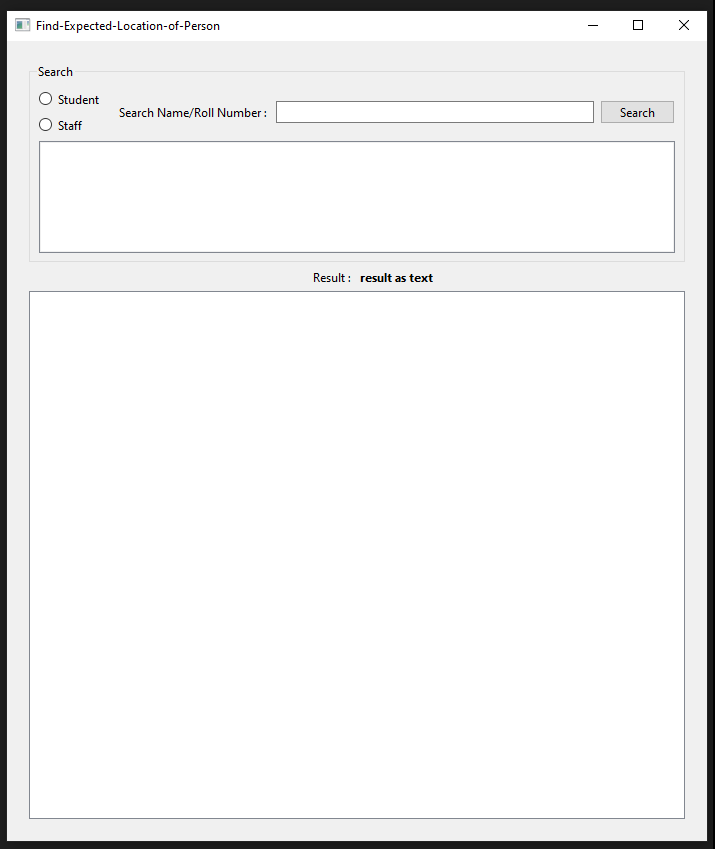
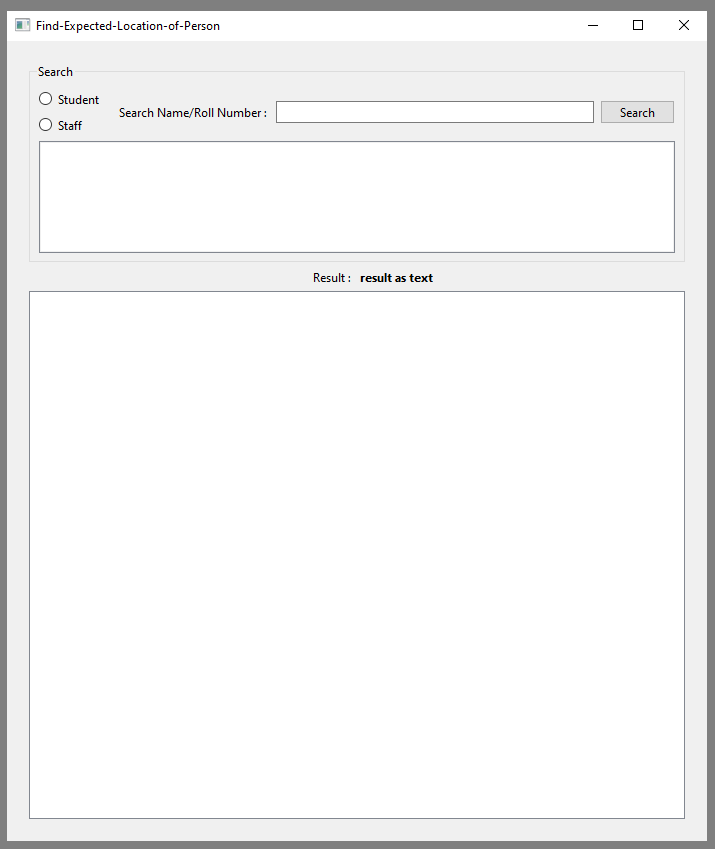
staff linking

Changed region(s): [[0.0, 0.0, 1.0, 1.0]]

diff --git a/staff.py b/staff.py
@@ -1,0 +1,71 @@
+import os
+import pandas as pd
+
+class Staffs():
+    """staff master"""
+
+    def __init__(self):
+        """Initialize instance attributes."""
+        self.__staff_csv_file = os.path.join(os.path.dirname(__file__), r"data/staffs.csv")
+        self.__staff_df = pd.DataFrame()
+        self.__staff_df = pd.read_csv(self.__staff_csv_file)
+
+    # Instance method
+    def method(self, arg):
+        """Do something with the instance."""
+        return f"class method"
+
+    def search(self, search_str:str):
+        """find in staff df"""
+        # print(self.__staff_df)
+        search_list = [x for x in search_str.split(" ") if x]
+        # print(search_list)
+
+        # create a single string per row from all columns
+        row_text = self.__staff_df.astype(str).agg(" ".join, axis=1).str.lower()
+
+        # require all items present in the same row
+        mask = pd.Series(True, index=self.__staff_df.index)
+        for item in search_list:
+            mask &= row_text.str.contains(item.lower(), na=False)
+
+        result = self.__staff_df[mask]
+
+        # print(self.__staff_df)
+        # print(search_list)
+        # print(result)
+        return result
+
+    # Class method: receives the class (cls)
+    @classmethod
+    def from_string(cls, s):
+        parts = s.split(',')
+        return cls(parts[0], parts[1:])
+
+    # Static method: no implicit first arg
+    @staticmethod
+    def helper(x):
+        return x * 2
+
+    # Property: computed attribute with getter/setter
+    @property
+    def value(self):
+        return self._private
+
+    @value.setter
+    def value(self, v):
+        if v < 0:
+            raise ValueError("value must be >= 0")
+        self._private = v
+
+
+def main():
+
+    staff_master = Staffs()
+    # staff_master.search('mehta 123')
+    print(staff_master.search('mehta 12'))
+
+
+if __name__ == "__main__":
+    main()
+

diff --git a/main.py b/main.py
@@ -12,14 +12,17 @@ from PySide6.QtUiTools import QUiLoader
 #     QRadioButton, QSizePolicy, QVBoxLayout, QWidget)
 
 import student
+import staff
 
 UI_FILE = os.path.dirname(__file__) + r"/gui/main.ui"
 QSS_FILE = os.path.join(os.path.dirname(__file__), r"gui/theme.qss")
 
 
 class MainWindow(QtWidgets.QWidget):
-    def __init__(self, parent=None):
-        super().__init__(parent)
+    def __init__(self, student_reg, staff_reg, *args, **kwargs):
+        super().__init__(*args, **kwargs)
+        self.student_reg = student_reg
+        self.staff_reg = staff_reg
 
         # Load .ui
         loader = QUiLoader()
@@ -74,19 +77,19 @@ class MainWindow(QtWidgets.QWidget):
 
     @Slot()
     def on_pushButton_search_clicked(self):
-
-        print('clicked')
+        # print('clicked')
 
         try:
-            search_list = [x for x in self.lineEdit_search.text().split(" ") if x]
+            search_str = self.lineEdit_search.text()
         except:
             print('error in search string')
 
-        if not (len(search_list)):
+        if len(search_str)<5:
             QMessageBox.warning(self, "Warning", "No search text.")
             return
 
-        print(search_list)
+        print(self.student_reg.search('123'))
+        print(self.staff_reg.search('125'))
 
 
     #     try:
@@ -110,13 +113,14 @@ class MainWindow(QtWidgets.QWidget):
     # -------------------------------------------------
 
 
+
 def main():
 
     student_reg = student.Students()
-    print(student_reg.search('meht 12'))
+    staff_reg = staff.Staffs()
 
     app = QApplication(sys.argv)
-    w = MainWindow()
+    w = MainWindow(student_reg, staff_reg)
     w.setWindowTitle("Find-Expected-Location-of-Person")
     w.resize(700, 800)
     w.show()
